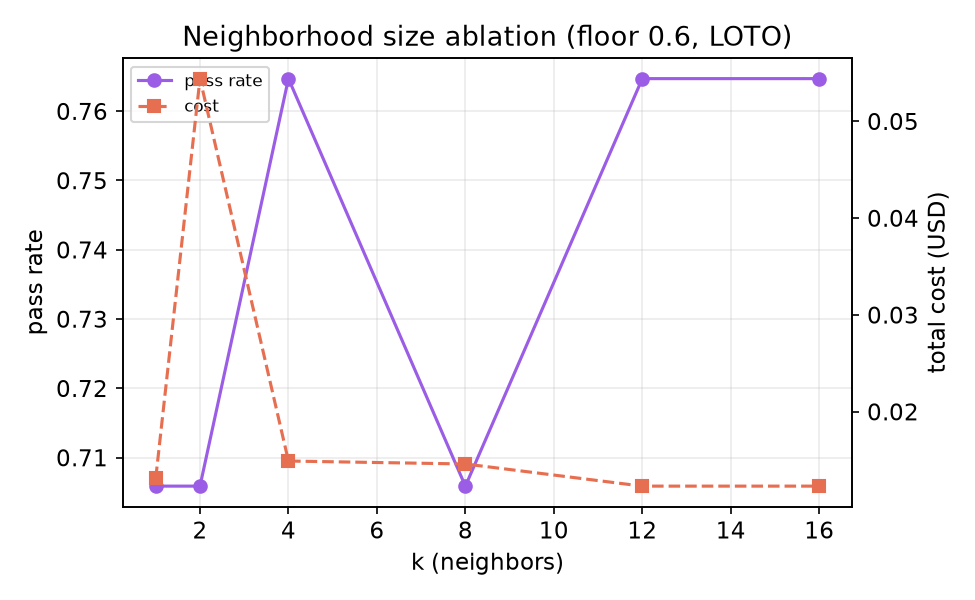
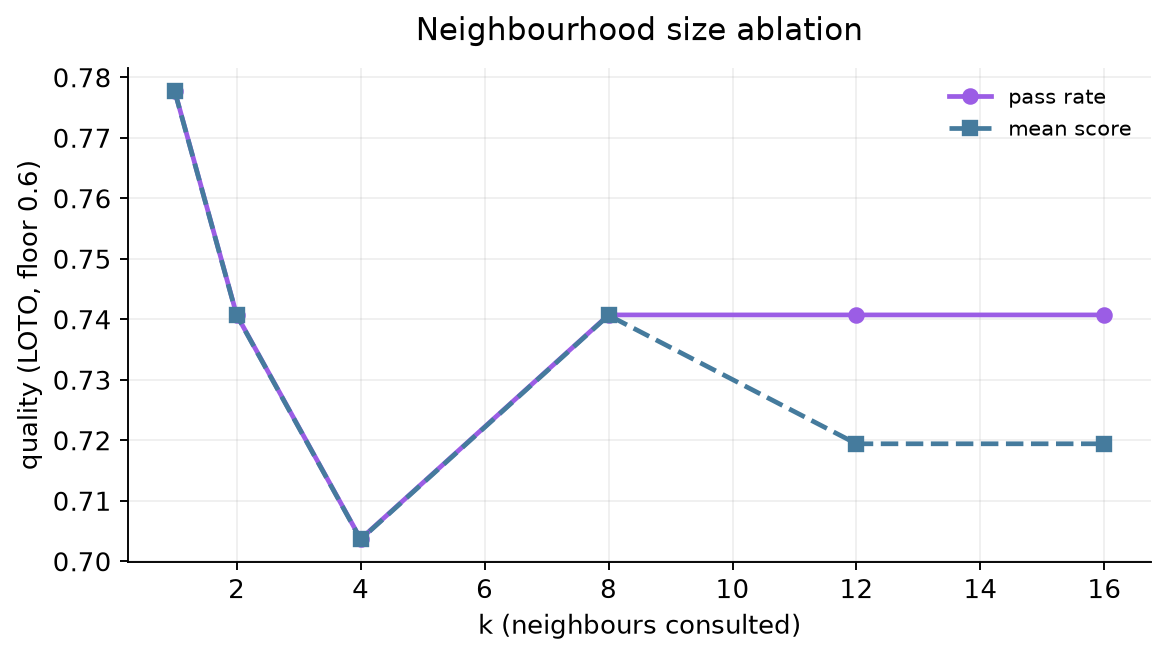
v2: 27 tasks incl scored optimization, gpt-5.5 frontier column, new figures, fusion note

diff --git a/scripts/experiments.py b/scripts/experiments.py
@@ -157,15 +157,17 @@ def main():
     fig, ax = plt.subplots(figsize=(8.4, 5.2))
     ax.set_xscale("log")
     label_off = {
-        "deepseek-v4-flash": (0, 16), "gpt-5.4-nano": (0, -22),
-        "gpt-5.4-mini": (0, 14), "gemini-3.5-flash": (0, 14), "gpt-5.5": (0, 14),
+        "deepseek-v4-flash": (-10, -22, "left"), "gpt-5.4-nano": (12, 10, "left"),
+        "gpt-5.4-mini": (0, 14, "center"), "gemini-3.5-flash": (0, 14, "center"),
+        "gpt-5.5": (0, 14, "center"),
     }
     for m in MODELS:
         s = rep["single"][m]
         ax.scatter(s["cost"], s["pass"], s=150, color=C[m], zorder=4,
                    edgecolors="white", linewidths=1.5)
+        dx, dy, ha = label_off[m]
         ax.annotate(m, (s["cost"], s["pass"]), textcoords="offset points",
-                    xytext=label_off[m], ha="center", fontsize=9.5, fontweight="bold",
+                    xytext=(dx, dy), ha=ha, fontsize=9.5, fontweight="bold",
                     color=C[m])
     rc = sorted((v["cost"], v["pass"], f) for f, v in rep["router"].items())
     ax.plot([x for x, _, _ in rc], [y for _, y, _ in rc], "-", color=C["router"],
@@ -181,7 +183,7 @@ def main():
     ax.scatter(cc["cost"], cc["pass"], marker="D", s=140, color=C["cascade"], zorder=5,
                edgecolors="white", linewidths=1.5)
     ax.annotate("cascade\n(verify + escalate)", (cc["cost"], cc["pass"]),
-                textcoords="offset points", xytext=(0, -34), ha="center",
+                textcoords="offset points", xytext=(26, -30), ha="left",
                 fontsize=9.5, fontweight="bold", color=C["cascade"])
     rcx = rep["cascade"]["router_start_0.5"]
     ax.scatter(rcx["cost"], rcx["pass"], marker="D", s=140, color=C["router"], zorder=5,
@@ -192,7 +194,8 @@ def main():
     ax.set_title(f"Cost vs quality: {n} coding tasks, cheap models + one frontier tier",
                  pad=14)
     ax.xaxis.set_major_formatter(mticker.FormatStrFormatter("$%g"))
-    ax.legend(fontsize=9, loc="lower right", frameon=False)
+    ax.set_xlim(left=min(rep["single"][m]["cost"] for m in MODELS) * 0.45)
+    ax.legend(fontsize=9, loc="lower left", bbox_to_anchor=(0.03, 0.18), frameon=False)
     ax.grid(alpha=0.2, which="both")
     fig.tight_layout()
     fig.savefig(FIGS / "frontier.png", bbox_inches="tight")

diff --git a/paper/learning-to-route.md b/paper/learning-to-route.md
@@ -3,11 +3,11 @@
 **Lee Penkman**
 [email redacted] · [openpaths.io](https://openpaths.io) · [github.com/lee101/learning-to-route](https://github.com/lee101/learning-to-route) · [huggingface.co/openpaths/learning-to-route](https://huggingface.co/openpaths/learning-to-route)
 
-*Draft v0.2, July 2026*
+*Draft v2, July 2026*
 
 ## Abstract
 
-Frontier coding models cost 5x to 55x more per token than small models that solve most real coding tasks just as well. GPT-5.6 Sol is $5.00 per million input tokens while DeepSeek V4 Flash is $0.14 official and $0.09 spot. Routing each task to the cheapest model that can solve it is therefore one of the largest levers left on serving cost, and it needs no model training at all. This paper describes a router where routing is literally embedding search. A task is embedded by a static embedding model, which is a token table lookup and a mean pool with no transformer forward pass, about 0.15 milliseconds on CPU from a 16 MB file. The k nearest previously seen tasks then vote on which model to use, weighted by their observed pass rates. Because the router state is just vectors plus outcome counters, it learns online: every completed agent task folds its result back into the nearest anchor, so the task to model map improves continuously from live traffic with no training loop. On a 17 problem medium to hard coding benchmark built for this paper, a verify and escalate cascade over four cheap models solves 100% of tasks at 26% of the cost of the best single model, which only solves 88%. The entire experimental run cost under one dollar of API credit. The router, benchmark, paper and serving code in Python, Go and Zig are all MIT licensed and deployed against the production router at openpaths.io.
+Frontier coding models cost 5x to 55x more per token than small models that solve most real coding tasks just as well. GPT-5.6 Sol is $5.00 per million input tokens while DeepSeek V4 Flash is $0.14 official and $0.09 spot. Routing each task to the cheapest model that can solve it is therefore one of the largest levers left on serving cost, and it needs no model training at all. This paper describes a router where routing is literally embedding search. A task is embedded by a static embedding model, which is a token table lookup and a mean pool with no transformer forward pass, about 0.15 milliseconds on CPU from a 16 MB file. The k nearest previously seen tasks then vote on which model to use, weighted by their observed pass rates. Because the router state is just vectors plus outcome counters, it learns online: every completed agent task folds its result back into the nearest anchor, so the task to model map improves continuously from live traffic with no training loop. On a 27 problem coding benchmark built for this paper, spanning medium to hard exact tasks plus optimization tasks scored by solution quality, a verify and escalate cascade over four cheap models solves 100% of tasks at 26% of the cost of the best single model (85.2%) and at 4% of the cost of a frontier tier model, gpt-5.5, which reaches only 77.8%. Per solved task the cascade costs $0.0041 against the frontier model's $0.1213, a 30x gap. The entire experimental history cost about four dollars of API credit. The router, benchmark, paper and serving code in Python, Go and Zig are all MIT licensed and deployed against the production router at openpaths.io.
 
 ![Cost quality frontier](figs/frontier.png)
 
@@ -65,7 +65,11 @@ When a routed task finishes, the agent reports the task text, the model, whether
 
 Router state serializes to JSON as (text, vector, stats) triples. Anything that can run the same static embedder and a cosine top k can serve it. The repo ships working examples for pybed (pure Python, flat and CAGRA style graph indexes, optional CUDA kernels, 0.34 ms per query over 20k documents on an RTX 5090), gobed (Go, 0.15 ms per embed) and zbed (Zig, SIMD). The model file is 16 MB and a big anchor table is megabytes, so the whole router fits inside an agent binary, a gateway, or an edge worker. Routing overhead is microseconds against LLM calls that take seconds.
 
-### 3.5 Routing as an intelligence lerp
+### 3.5 One space, many embedders
+
+A practical lesson from training our own static models ([public-static-modern-bert](https://github.com/lee101/public-static-modern-bert)) is that a 512 dimension embedding space has plenty of spare capacity and redundancy. You can run more than one static embedder over the same text, for example the English retrieval model and the multilingual similarity model, and fuse the outputs by plain averaging into one space, and retrieval still works. For routing this means one anchor table can serve traffic across languages and embedder generations: adding a second embedder is an average, not a migration. We do not use fusion in the experiments below because a single embedder is sufficient at this scale, but it is the upgrade path when a router table needs to cover inputs one embedder handles poorly.
+
+### 3.6 Routing as an intelligence lerp
 
 A useful way to think about what the router does: it linearly interpolates intelligence per request. Model families now expose a price and capability dial with discrete stops, Luna, Terra, Sol on the OpenAI side, Haiku, Sonnet, Opus and now Fable on the Anthropic side, plus a long tail of small open models below them. A fixed choice pins every request to one stop. The router turns the discrete tiers into a continuous curve: easy requests resolve at the cheap end, hard ones at the frontier end, and the blend point per task is learned from outcomes rather than guessed. The aggregate effect is a deployment that sits between tiers, for example 95% of Sol quality at closer to Luna prices.
 
@@ -73,64 +77,67 @@ This is also why the method scales to bigger models without any changes. Adding 
 
 ## 4. Benchmark
 
-Public coding benchmarks are either saturated by cheap models (frontier models exceed 90% on HumanEval+ and MBPP+) or too expensive to rerun per router iteration (SWE-bench). Router research needs tasks where cheap models fail at meaningfully different rates, cheaply. So the repo includes 17 self contained Python tasks, medium to hard, each with adversarial hidden tests run in an isolated interpreter (python -I, 15 second timeout):
+Public coding benchmarks are either saturated by cheap models (frontier models exceed 90% on HumanEval+ and MBPP+) or too expensive to rerun per router iteration (SWE-bench). Router research needs tasks where cheap models fail at meaningfully different rates, cheaply. So the repo includes 27 self contained Python tasks with adversarial hidden tests run in an isolated interpreter (python -I). 22 are exact pass or fail tasks, medium to hard:
 
 - Stateful data structures: an LRU cache with TTL and interacting eviction rules, a wildcard trie, a consistent hash ring that must match an exact md5 point spec.
 - Parsers and matchers: RFC 4180 CSV without the csv module, path globbing with ** semantics, a small regex engine, an arithmetic expression evaluator with Python floor semantics and no eval.
 - Algorithms: lexicographically smallest topological sort, cheapest path with a stop budget, interval set operations, minimal LCS diff scripts verified against a DP oracle.
 - Systems semantics: a sliding window rate limiter with half open windows, a parallel task scheduler, an idempotent transaction ledger with ordered rejections.
 - Codecs and resolvers: base62 with leading zero preservation, semver range resolution including caret on 0.x, JSON path lookup.
+- Interpreters and spec heavy parsing: a mini Lisp with closures and recursion, cron expression next run with day of month or day of week OR semantics, a SQL subset over dicts, a JSON Schema subset, POSIX like shell tokenization.
 
-The hidden tests were themselves validated by writing reference solutions for the five most spec heavy tasks, and two test bugs found this way were fixed before any numbers were recorded. Tasks are prompt only, graded pass or fail, and a full four model sweep costs about 25 cents. The harness targets any OpenAI compatible endpoint and every call in this paper went through a single openpaths.io key, which also exercised provider fallbacks and gave uniform usage accounting. This is deliberately a router benchmark rather than a model benchmark: its job is to produce per task disagreement between models, which is the signal a router learns from. Figure 2 shows exactly that.
+The other 5 are optimization tasks with no optimal requirement, only a quality score in [0, 1] against a reference bound: euclidean TSP tour construction (scored against nearest neighbour plus 2-opt), one dimensional bin packing (against first fit decreasing), 0/1 knapsack with 200 items (against the exact DP optimum), makespan scheduling on identical machines (against the trivial lower bound), and writing a lossless compressor from scratch with a banned library check (scored on size against zlib level 9, with an exact roundtrip required). Each has a pass threshold (for example 0.97 of optimal for knapsack, 0.30 of zlib for compression) so pass or fail policies and score aware policies can both be evaluated. These tasks measure something exact tests cannot: how good an answer a model produces when perfection is off the table, which is where coding agents actually live most of the day.
+
+The hidden tests were validated by writing reference solutions for the most spec heavy tasks in both waves, and four test bugs found this way were fixed before any numbers were recorded. The reference solutions also calibrate the optimization thresholds: plain nearest neighbour TSP scores 0.846 and fails the 0.92 threshold, while adding 2-opt passes, so the thresholds reward algorithm quality rather than boilerplate. Tasks are prompt only, graded pass or fail, and a full four model sweep costs about 25 cents. The harness targets any OpenAI compatible endpoint and every call in this paper went through a single openpaths.io key, which also exercised provider fallbacks and gave uniform usage accounting. This is deliberately a router benchmark rather than a model benchmark: its job is to produce per task disagreement between models, which is the signal a router learns from. Figure 2 shows exactly that.
 
 ![Per task outcomes](figs/heatmap.png)
 
 ## 5. Experiments
 
-Protocol: run the four cheap models over all 17 tasks, build the router from the outcome log, then evaluate with leave one task out. When routing task t every anchor for t is removed first, so the router only generalizes from other tasks. This is a deliberately harsh test at n = 17: the router must place each task using 16 mostly unrelated neighbours. All numbers below are from `experiments/report.json`, regenerated end to end by `scripts/experiments.py`.
+Protocol: run the models over all 27 tasks, build the router from the outcome log, then evaluate with leave one task out. When routing task t every anchor for t is removed first, so the router only generalizes from other tasks. All numbers below are from `experiments/report.json`, regenerated end to end by `scripts/experiments.py`.
 
-Models in the table: deepseek-v4-flash ($0.14/$0.28 per million), gpt-5.4-nano ($0.20/$1.25), gpt-5.4-mini ($0.75/$4.50), gemini-3.5-flash ($1.50/$9.00). Frontier tiers (gpt-5.6-luna, terra, sol) are configured as escalation targets with priors only. Total spend for everything in this paper was under one dollar.
+The routing fleet is four cheap models: deepseek-v4-flash ($0.14/$0.28 per million), gpt-5.4-nano ($0.20/$1.25), gpt-5.4-mini ($0.75/$4.50), gemini-3.5-flash ($1.50/$9.00). To test the assumption that expensive means better, v2 adds one frontier tier model as a fifth column: gpt-5.5 ($5.00/$30.00), the strongest OpenAI model our org can call today (the GPT-5.6 tiers are configured as escalation targets but were still preview gated for our org at time of writing; slotting in gpt-5.6-luna when access lands is a one line change). Total spend for the full experimental history of this paper: about four dollars, of which gpt-5.5 alone was $2.55.
 
 ### 5.1 Single models, router, cascade, oracle
 
-| Policy | Pass rate | Total cost | Cost vs gpt-5.4-mini | Median latency |
-|---|---|---|---|---|
-| deepseek-v4-flash | 76.5% | $0.0123 | 6% | 20.0s |
-| gpt-5.4-nano | 82.4% | $0.0125 | 6% | 5.1s |
-| gpt-5.4-mini | 88.2% | $0.2229 | 100% | 20.9s |
-| gemini-3.5-flash | 58.8% | $0.4969 | 223% | 14.6s |
-| Router alone (tau 0.7, LOTO) | 76.5% | $0.0524 | 24% | |
-| Cascade, price order | **100%** | $0.0580 | **26%** | |
-| Router start cascade (tau 0.5) | **100%** | $0.0580 | **26%** | |
-| Oracle, cheapest passing | 100% | $0.0458 | 21% | |
+| Policy | Pass rate | Mean score | Total cost | Cost per solved task | Median latency |
+|---|---|---|---|---|---|
+| deepseek-v4-flash | 74.1% | 0.719 | $0.0252 | $0.0013 | 33s |
+| gpt-5.4-nano | 77.8% | 0.778 | $0.0301 | $0.0014 | 6s |
+| gpt-5.4-mini | 85.2% | 0.852 | $0.4262 | $0.0185 | 27s |
+| gemini-3.5-flash | 44.4% | 0.444 | $0.8563 | $0.0714 | 17s |
+| gpt-5.5 (frontier) | 77.8% | 0.778 | $2.5479 | $0.1213 | 28s |
+| Router alone (floor 0.5, LOTO) | 77.8% | 0.756 | $0.0251 | $0.0012 | |
+| Cascade, price order | **100%** | 0.979 | $0.1107 | $0.0041 | |
+| Router start cascade (floor 0.5) | **100%** | 0.979 | $0.1095 | $0.0041 | |
+| Oracle, cheapest passing | 100% | 1.000 | $0.0902 | $0.0033 | |
 
-![Policies compared](figs/policies.png)
+![Cost per solved task](figs/cost_per_solve.png)
 
-Three results stand out.
+Four results stand out.
 
-First, the oracle solves everything. Every one of the 17 tasks is solved by at least one model costing at most $0.75 per million input tokens. On this benchmark there is no task that requires a frontier model, there are only tasks that require the right cheap model. csv_parser is solved only by gemini-3.5-flash, the weakest model overall, while regex_lite is solved by deepseek and mini but not nano. That anti correlation between models is the entire routing opportunity.
+First, the frontier model does not win. gpt-5.5 at $2.55 lands on exactly the same pass rate as gpt-5.4-nano at $0.03, an 85x price gap for zero quality gain on this workload, and it trails gpt-5.4-mini by 7 points. Per solved task it is the single worst deal on the board at $0.1213, 30x the cascade. Whatever gpt-5.5 is better at (and on long horizon agentic work it surely is), a mixed bag of hard self contained coding tasks is not where its premium pays.
 
-Second, verification turns cheap models into a frontier model. The cascade (run the cheapest model, check the hidden tests, escalate on failure) reaches 100% pass at $0.058, which is 26% of the cost of the strongest single model and beats its 88.2% pass rate outright. Expensive models are best treated as an escalation tier, not a default.
+Second, the oracle still solves everything without frontier help. Every one of the 27 tasks, including the five optimization tasks with their quality thresholds, is solved by at least one sub dollar model. The per task disagreement is strong (figure 2): csv_parser falls only to gemini-3.5-flash, the weakest model overall; the from scratch compressor falls only to the two OpenAI minis; deepseek uniquely fails tasks the others find easy. That anti correlation is the entire routing opportunity.
 
-Third, more expensive does not mean better. gemini-3.5-flash costs 40x deepseek-v4-flash on this workload and solves 18 points fewer tasks. Price ordered fallback chains that assume monotonic quality are structurally wrong; measured pass rates per task type are the fix, which is what the anchor table stores.
+Third, the router alone is now on the pareto frontier. At floor 0.5 it matches gpt-5.4-nano's pass rate at 83% of nano's cost, because it has learned to send deepseek friendly tasks to deepseek and keep nano for the rest. With 26 leave one out anchors the neighbourhoods are still thin, and the router alone still cannot reach mini's 85.2%; its headline value remains cascade mode, where choosing the starting rung keeps full coverage while trimming wasted first attempts ($0.1095 vs $0.1107, a small but real saving that grows with table size).
 
-The router run alone (no verification, one shot commitment) recovers 87% of mini's pass rate at 24% of its cost at tau 0.7, and matches deepseek's frontier point at low tau. It does not beat gpt-5.4-nano here, and honesty requires saying so: with 16 leave one out anchors the neighbourhoods are simply thin, and nano is an unusually strong default on this benchmark (82.4% at nano prices with a 5.1s median latency, four times faster than the other models). The router's value at this scale shows up in cascade mode, where its choice of starting rung keeps full coverage while trimming wasted first attempts, and in the operational properties measured next.
+Fourth, verification turns cheap models into a frontier beating system. The cascade reaches 100% pass and 0.979 mean score at $0.1107: 26% of mini's cost, 4.3% of gpt-5.5's, while beating both outright on quality. On the optimization tasks the cascade's escalation also raises answer quality, not just pass rates, because a later model's better tour or tighter packing replaces an earlier model's marginal one.
 
 ### 5.2 Ablations
 
 ![k ablation](figs/k_ablation.png)
 
-Neighbourhood size k barely moves pass rate between 1 and 16 on this table (70.6% to 76.5%, non monotonic), confirming the estimates are prior dominated at this scale; k matters when tables reach thousands of anchors, which is where the graph index earns its keep. Swapping the static embedder for a random hash projection of tokens (a bag of words with no semantics) shifts routing decisions only modestly at n = 17 (76.5% vs 70.6% at tau 0.6, with different escalation costs). At this table size locality comes mostly from shared vocabulary; the semantic embedder is expected to separate from the hash baseline as anchors densify and paraphrase robustness starts to matter, and this is the first experiment to rerun at scale.
+Neighbourhood size k moves quality by a few points between 1 and 16 with no clean monotone trend, confirming estimates are prior dominated at this scale; k starts mattering when tables reach thousands of anchors, which is where the graph index earns its keep. Swapping the static embedder for a random hash projection of tokens still routes competitively (85.2% vs 74.1% pass at floor 0.6, with different escalation spend), and honesty requires repeating this: at 27 anchors, locality comes mostly from shared vocabulary. The semantic embedder's paraphrase robustness is expected to separate from the hash baseline as anchors densify; measuring exactly where that crossover happens is the first experiment to run at LiveCodeBench scale.
 
 ### 5.3 What this costs to research
 
-The full experimental history of this paper, including two rounds of benchmark debugging, retries after provider timeouts, and every ablation, spent well under one dollar of API credit, because everything was measured on models at or below $1.50 per million input tokens. The expensive tiers appear in the fleet as escalation targets whose prices are known and whose empirical footprints will fill in from production traffic rather than from benchmark spend. This is a deliberate methodological point: router research is one of the few areas of LLM systems research where the interesting measurements get cheaper as you get closer to the right design.
-
+The full experimental history of this paper, two benchmark waves, test debugging, provider timeouts and retries, and every ablation, cost about four dollars, and the cheap model portion of it under one. The single most expensive line item was measuring that the frontier model is not worth measuring. This is the methodological point of the cheap training regime: a router learns everything it needs from models priced like commodities, and the expensive tiers only ever need to be priced in, not benchmarked at scale.
 ## 6. Discussion and Limitations
 
-Seventeen tasks demonstrate mechanism, not state of the art. The benchmark is sized to make router iteration essentially free, and the protocol scales directly to LiveCodeBench (which has explicit easy, medium, hard labels and contamination resistant problems) and to RouterBench's 405k precomputed generations for offline comparison against learned routers. Both need only a task loader.
+Twenty seven tasks demonstrate mechanism, not state of the art. The benchmark is sized to make router iteration essentially free, and the protocol scales directly to LiveCodeBench (which has explicit easy, medium, hard labels and contamination resistant problems) and to RouterBench's 405k precomputed generations for offline comparison against learned routers. Both need only a task loader.
 
-Leave one task out at n = 17 is close to a worst case for kNN; production tables see near duplicate tasks all day, which is where locality actually pays. The flip side is a feedback loop: models that never get chosen never get data. The anchor statistics are per arm bandit statistics, so epsilon greedy exploration on a small traffic slice and optimistic priors for new models are the natural fixes, and formalizing the router as a contextual bandit with kNN context is the clearest theory extension.
+Leave one task out at n = 27 is close to a worst case for kNN; production tables see near duplicate tasks all day, which is where locality actually pays. The flip side is a feedback loop: models that never get chosen never get data. The anchor statistics are per arm bandit statistics, so epsilon greedy exploration on a small traffic slice and optimistic priors for new models are the natural fixes, and formalizing the router as a contextual bandit with kNN context is the clearest theory extension.
 
 Static embedders lose word order, which caps how fine grained the routing signal can get. The measured gap between the static embedder and a hash baseline is small at this scale, so the honest claim is that the static embedder buys paraphrase robustness and a 16 MB deployment, not benchmark points, yet.
 
@@ -138,7 +145,7 @@ Nothing restricts anchor payloads to model IDs. The same table can store reasoni
 
 ## 7. Conclusion
 
-Routing is the cheapest way left to move the cost quality frontier of coding agents: on this benchmark a learned cascade of sub dollar models beats the best single model on both axes at once, solving 100% of tasks for 26% of its cost. The router that achieves this is a 16 MB static embedding model and a JSON file of task vectors with pass rate counters, updated by the agents it routes, servable from Python, Go or Zig in under a millisecond. As model families keep shipping price tiers, Luna to Sol, Haiku to Fable, this kind of router acts as an intelligence lerp, blending tiers per request so a deployment tracks the frontier continuously instead of re standardizing on a new model every quarter. Everything here, the benchmark, the router, the serving code and this paper, is MIT licensed at [github.com/lee101/learning-to-route](https://github.com/lee101/learning-to-route) and mirrored at [huggingface.co/openpaths/learning-to-route](https://huggingface.co/openpaths/learning-to-route), and the measured improvements deploy directly into the auto router at [openpaths.io](https://openpaths.io).
+Routing is the cheapest way left to move the cost quality frontier of coding agents: on this benchmark a learned cascade of sub dollar models beats every single model on both axes at once, solving 100% of tasks at 26% of the best cheap model's cost and 4% of a frontier model's cost, while the frontier model itself ties a $0.03 model on pass rate. The router that achieves this is a 16 MB static embedding model and a JSON file of task vectors with pass rate counters, updated by the agents it routes, servable from Python, Go or Zig in under a millisecond. As model families keep shipping price tiers, Luna to Sol, Haiku to Fable, this kind of router acts as an intelligence lerp, blending tiers per request so a deployment tracks the frontier continuously instead of re standardizing on a new model every quarter. Everything here, the benchmark, the router, the serving code and this paper, is MIT licensed at [github.com/lee101/learning-to-route](https://github.com/lee101/learning-to-route) and mirrored at [huggingface.co/openpaths/learning-to-route](https://huggingface.co/openpaths/learning-to-route), and the measured improvements deploy directly into the auto router at [openpaths.io](https://openpaths.io).
 
 ## References
 

diff --git a/README.md b/README.md
@@ -4,7 +4,7 @@
 
 Frontier models cost 5x to 55x more than small models that solve most coding tasks just as well (gpt-5.6-sol $5.00/1M input vs deepseek-v4-flash $0.09/1M spot). A router that sends each task to the cheapest model likely to solve it moves the cost/speed/quality frontier without training a single LLM.
 
-This repo is the open research codebase for the whitepaper [**Learning to Route**](paper/learning-to-route.md). Headline result on the included 17-task medium-hard coding benchmark: a verify-and-escalate cascade over four cheap models (deepseek-v4-flash, gpt-5.4-nano, gpt-5.4-mini, gemini-3.5-flash) solves **100% of tasks at 26% of the cost** of the best single model, which only solves 88.2%. Total research spend: under $1.
+This repo is the open research codebase for the whitepaper [**Learning to Route**](paper/learning-to-route.md). Headline result on the included 27-task coding benchmark (medium-hard exact tasks plus quality-scored optimization tasks): a verify-and-escalate cascade over four cheap models solves **100% of tasks at 26% of the cost of the best single model and 4% of the cost of a frontier model (gpt-5.5)**, which ties a $0.03 model at 77.8% pass. Per solved task: cascade $0.0041 vs frontier $0.1213, a 30x gap. Total research spend: about $4.
 
 ![frontier](paper/figs/frontier.png)
 